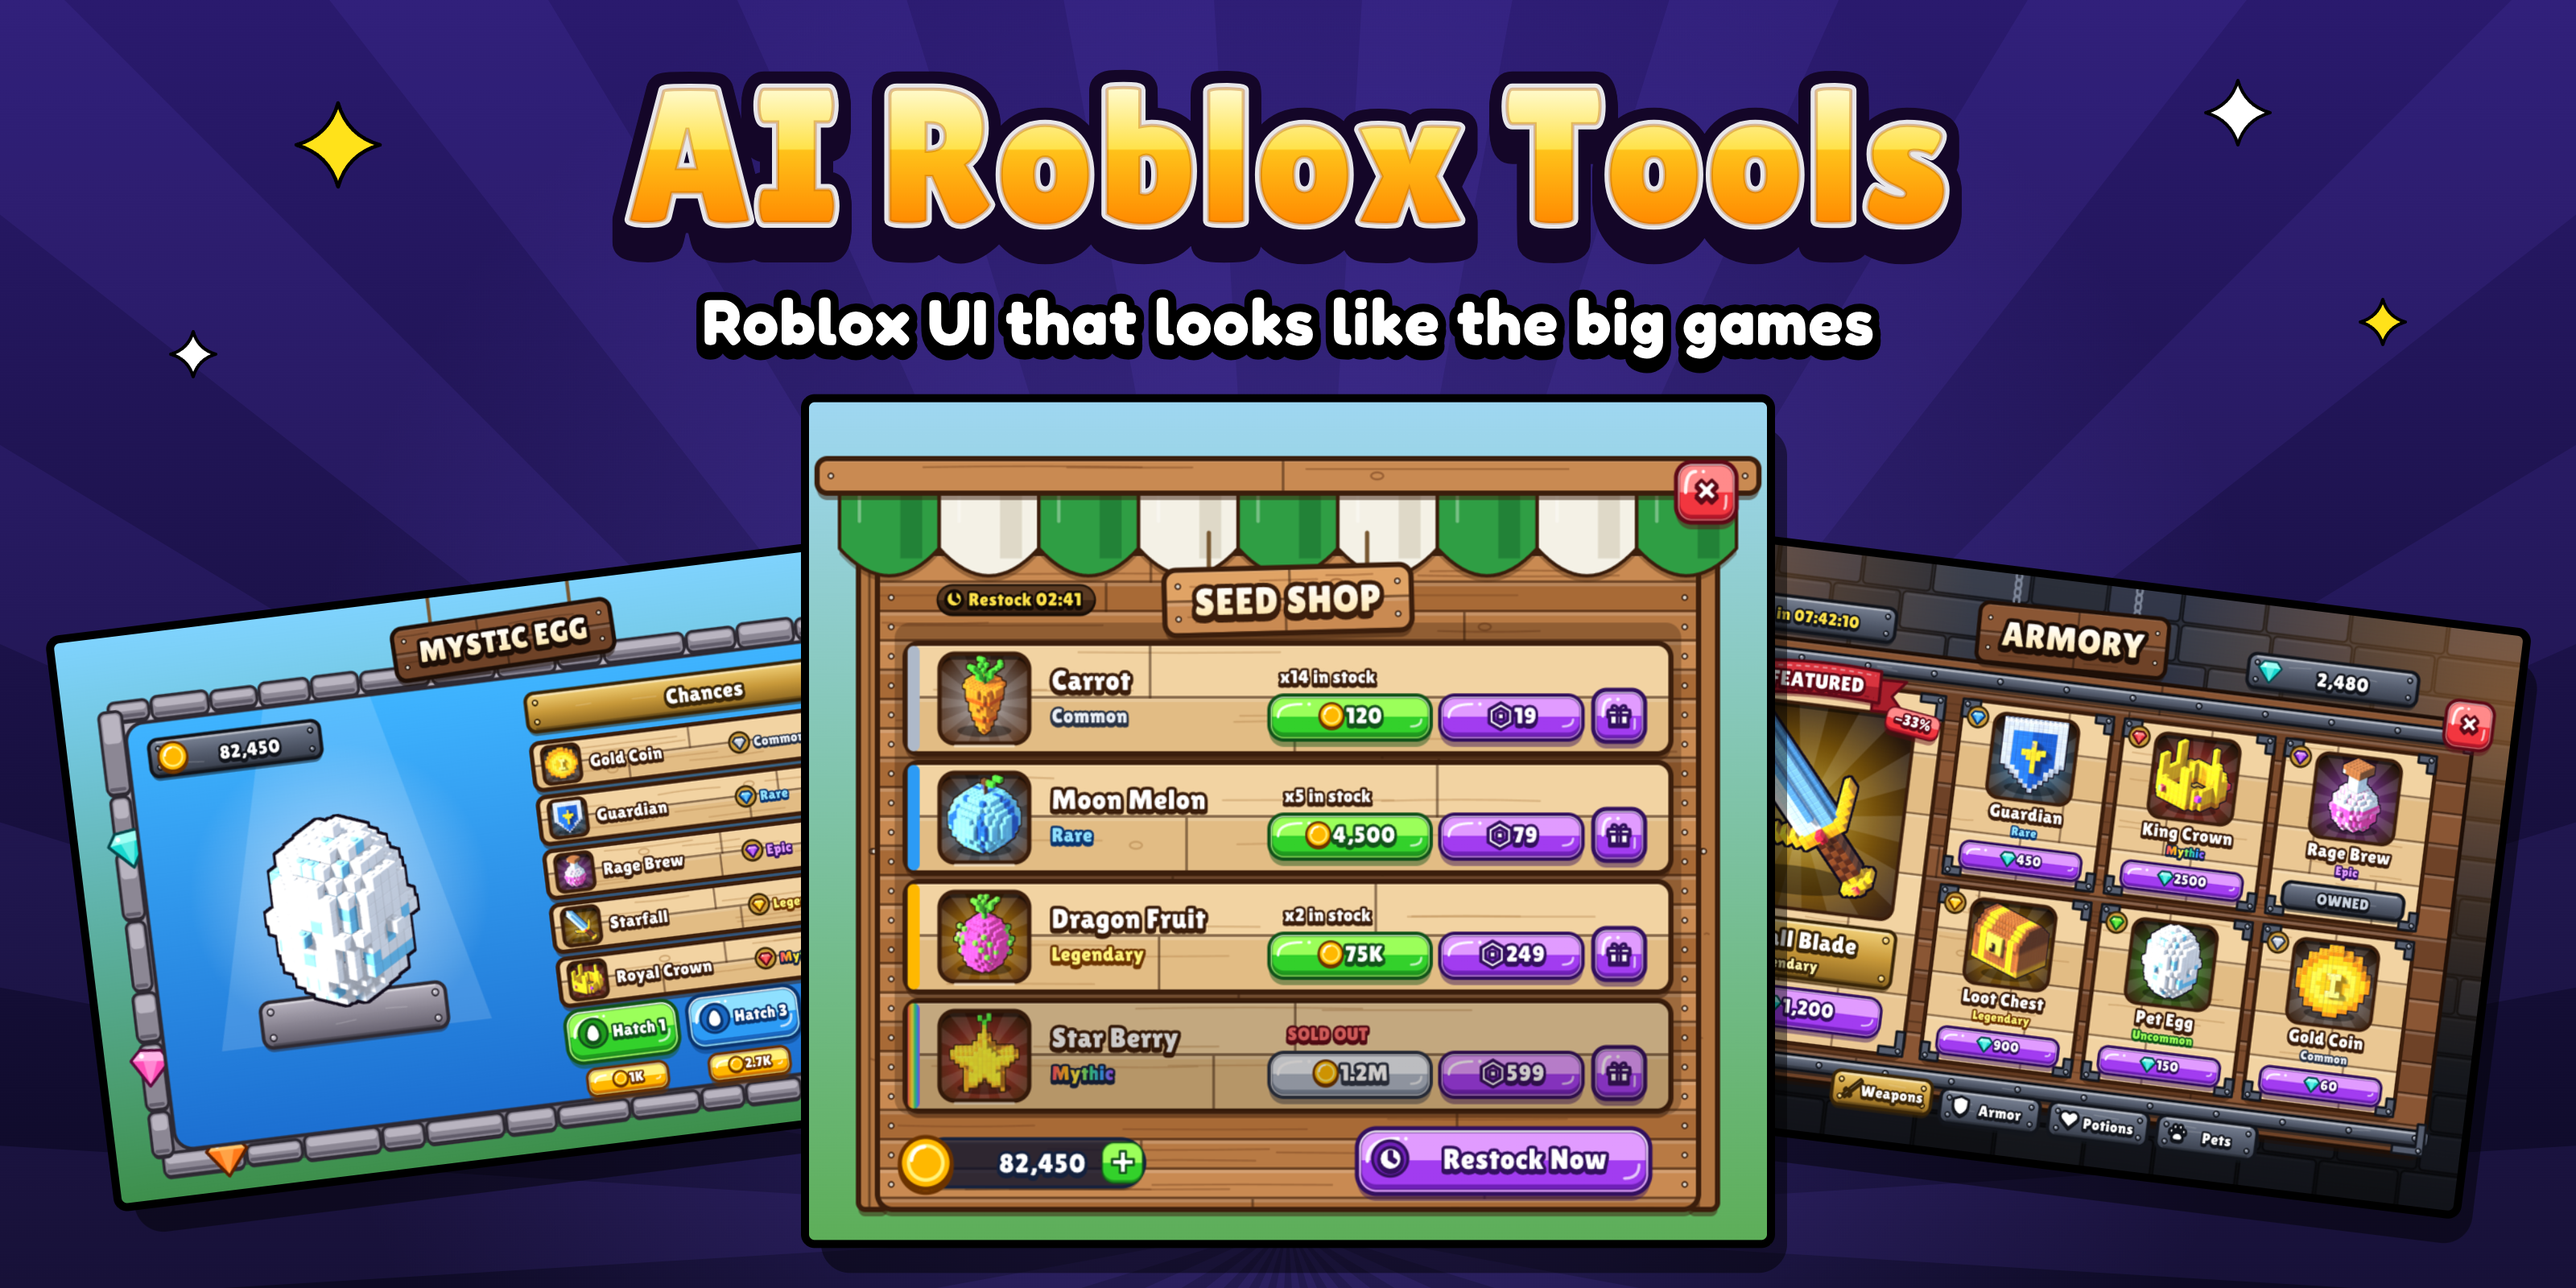
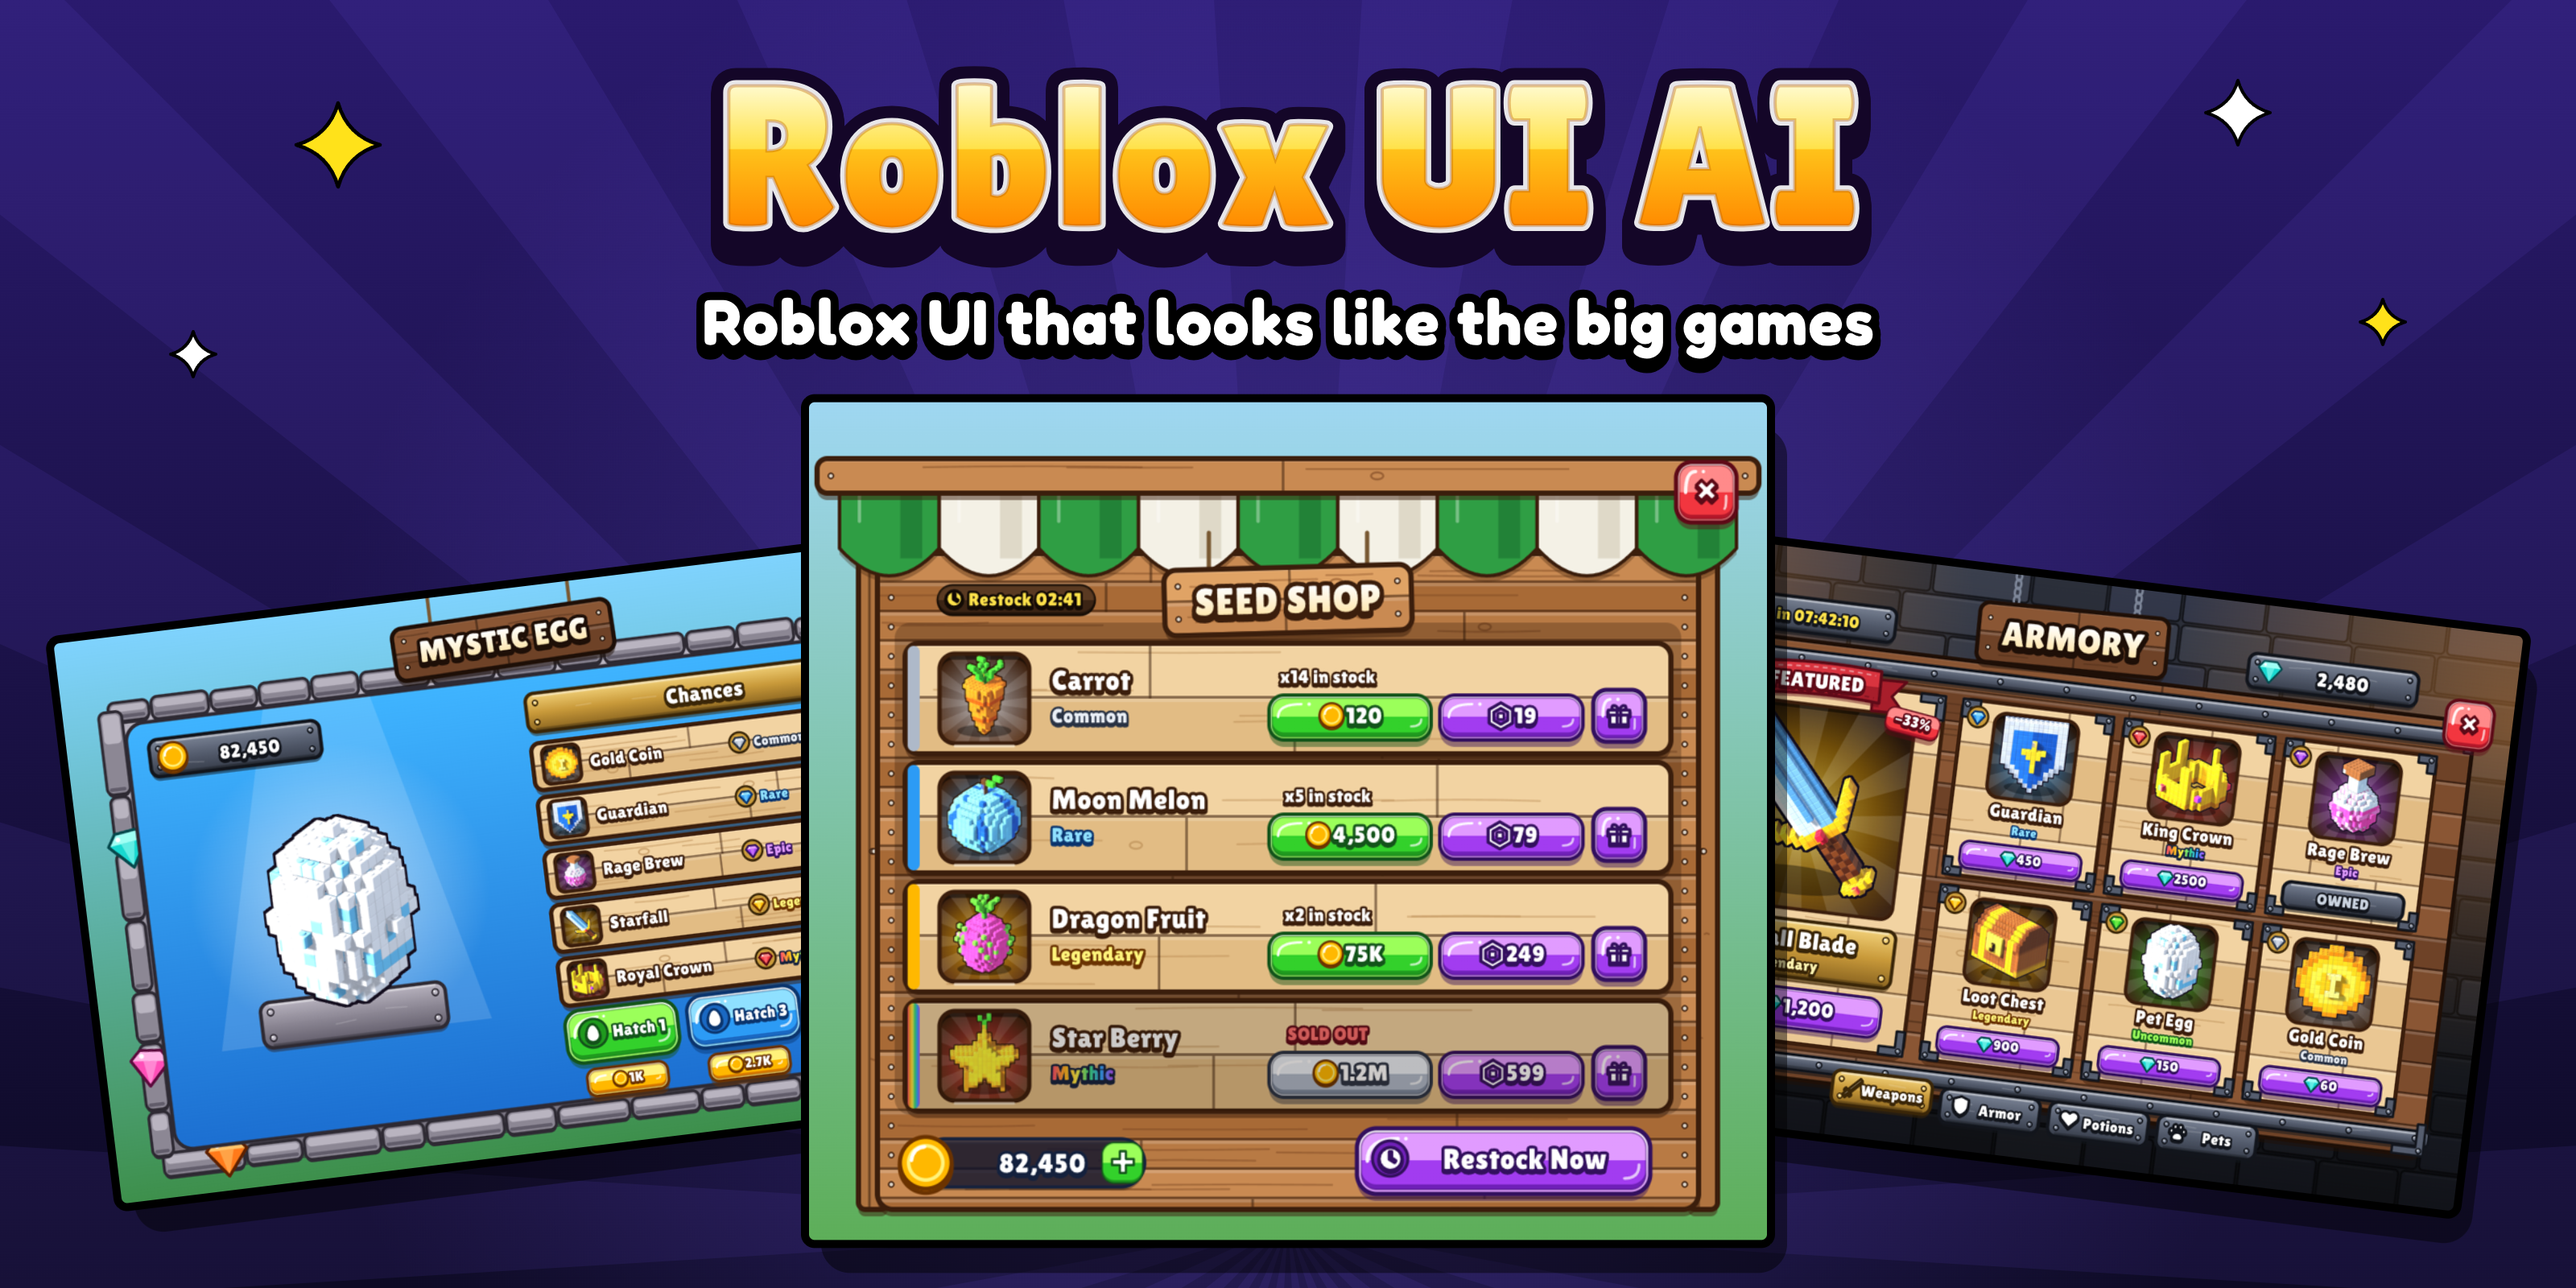
Rename to Roblox UI AI

Changed region(s): [[0.2188, 0.0312, 0.7812, 0.2188]]

diff --git a/examples/banner.py b/examples/banner.py
@@ -24,7 +24,7 @@ d.add(sunburst(W / 2, 760, 1400, 26, '#7A5CFF', .09), glow(d, W / 2, 520, 620, '
 d.add(shot('egg_hatch_v2', 330, 540, 560, -7), shot('shop_daily_v2', 1270, 540, 560, 7), shot('shop_stock_v2', W / 2, 510, 600, 0))
 import text_paths as TP
 TP.set_font(os.path.join(HERE, '..', 'kit', 'fonts', 'LilitaOne-Regular.ttf'))
-title, size, ty = 'AI Roblox Tools', 118, 138
+title, size, ty = 'Roblox UI AI', 124, 140
 path = TP.path(title, W / 2, ty, size)
 depth = 14
 for k in range(depth, 0, -1):

diff --git a/README.md b/README.md
@@ -1,4 +1,4 @@
-<p align="center"><img src="examples/banner.png" alt="AI Roblox Tools"></p>
+<p align="center"><img src="examples/banner.png" alt="Roblox UI AI"></p>
 
 <p align="center"><b>A skill that teaches AI agents (Claude Code and similar) to make Roblox UI that looks like the big games,<br>and to understand how successful Roblox games are built.</b></p>
 
@@ -27,12 +27,12 @@
 ## Install
 **Claude Code plugin (one command):**
 ```
-/plugin marketplace add Nomako20/ai-roblox-tools
-/plugin install ai-roblox-tools@ai-roblox-tools
+/plugin marketplace add Nomako20/roblox-ui-ai
+/plugin install roblox-ui-ai@roblox-ui-ai
 ```
 **Or as a plain skill:**
 ```bash
-git clone https://github.com/Nomako20/ai-roblox-tools ~/.claude/skills/ai-roblox-tools
+git clone https://github.com/Nomako20/roblox-ui-ai ~/.claude/skills/roblox-ui-ai
 ```
 For rendering mockups: `pip install fonttools pillow playwright`.
 Rendering uses your installed Edge or Chrome, so no browser download. Blender 4+ is only needed for new 3D icons.

diff --git a/GUIDE.md b/GUIDE.md
@@ -1,7 +1,7 @@
 # Guide
 
 ## 1. Setup (5 minutes)
-1. Clone into your skills folder: `~/.claude/skills/ai-roblox-tools` (Windows: `C:\Users\<you>\.claude\skills\ai-roblox-tools`).
+1. Clone into your skills folder: `~/.claude/skills/roblox-ui-ai` (Windows: `C:\Users\<you>\.claude\skills\roblox-ui-ai`).
 2. `pip install fonttools pillow playwright`. Edge or Chrome must be installed (used for rendering).
 3. Test: `cd examples && python egg_flat.py`. It writes `egg_flat.png`.
 
